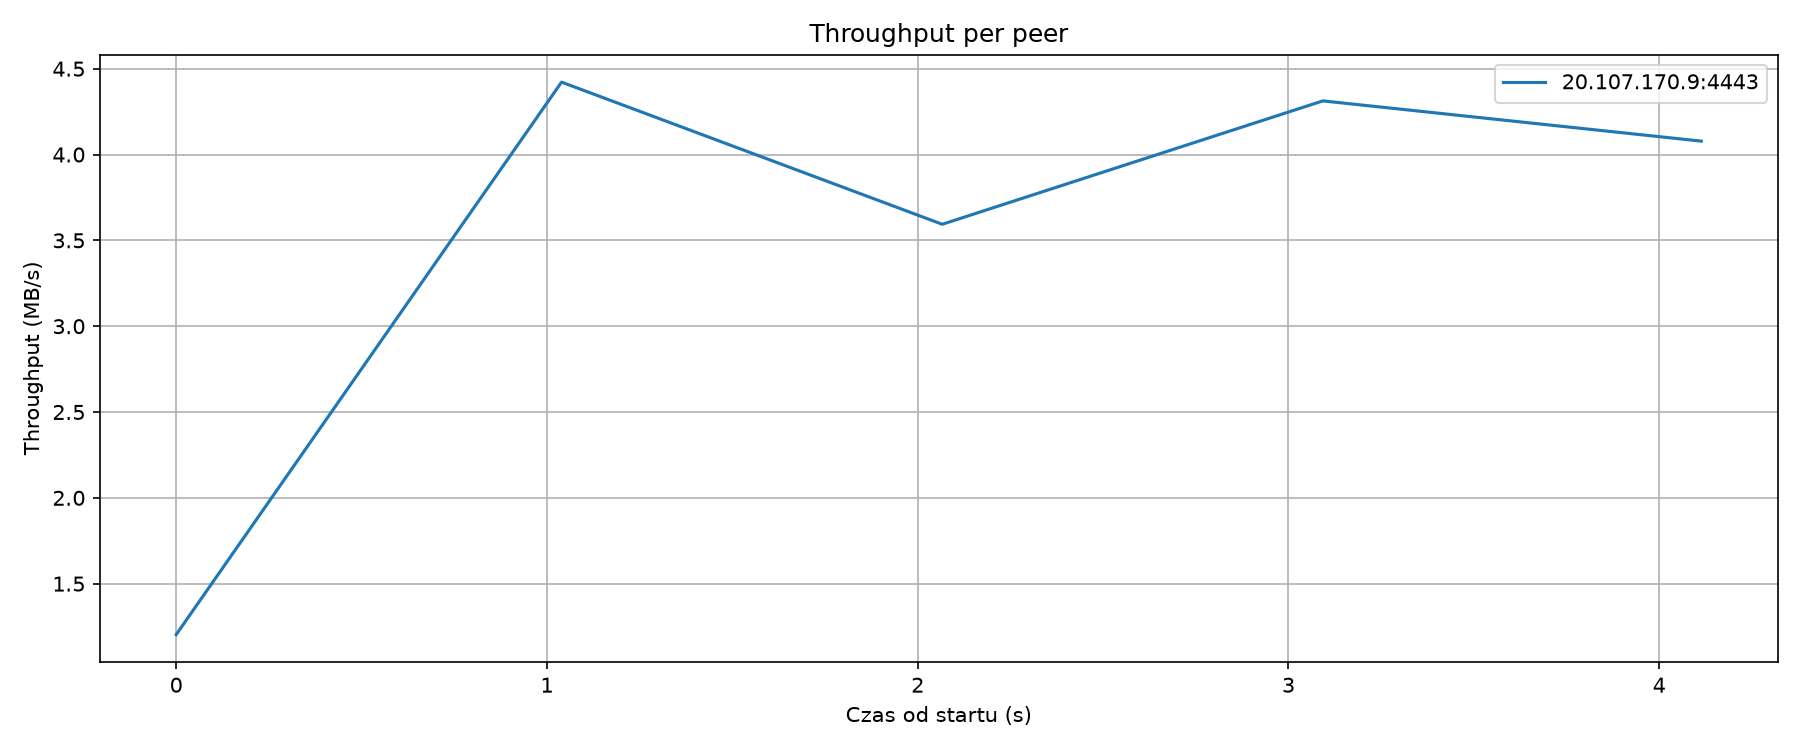
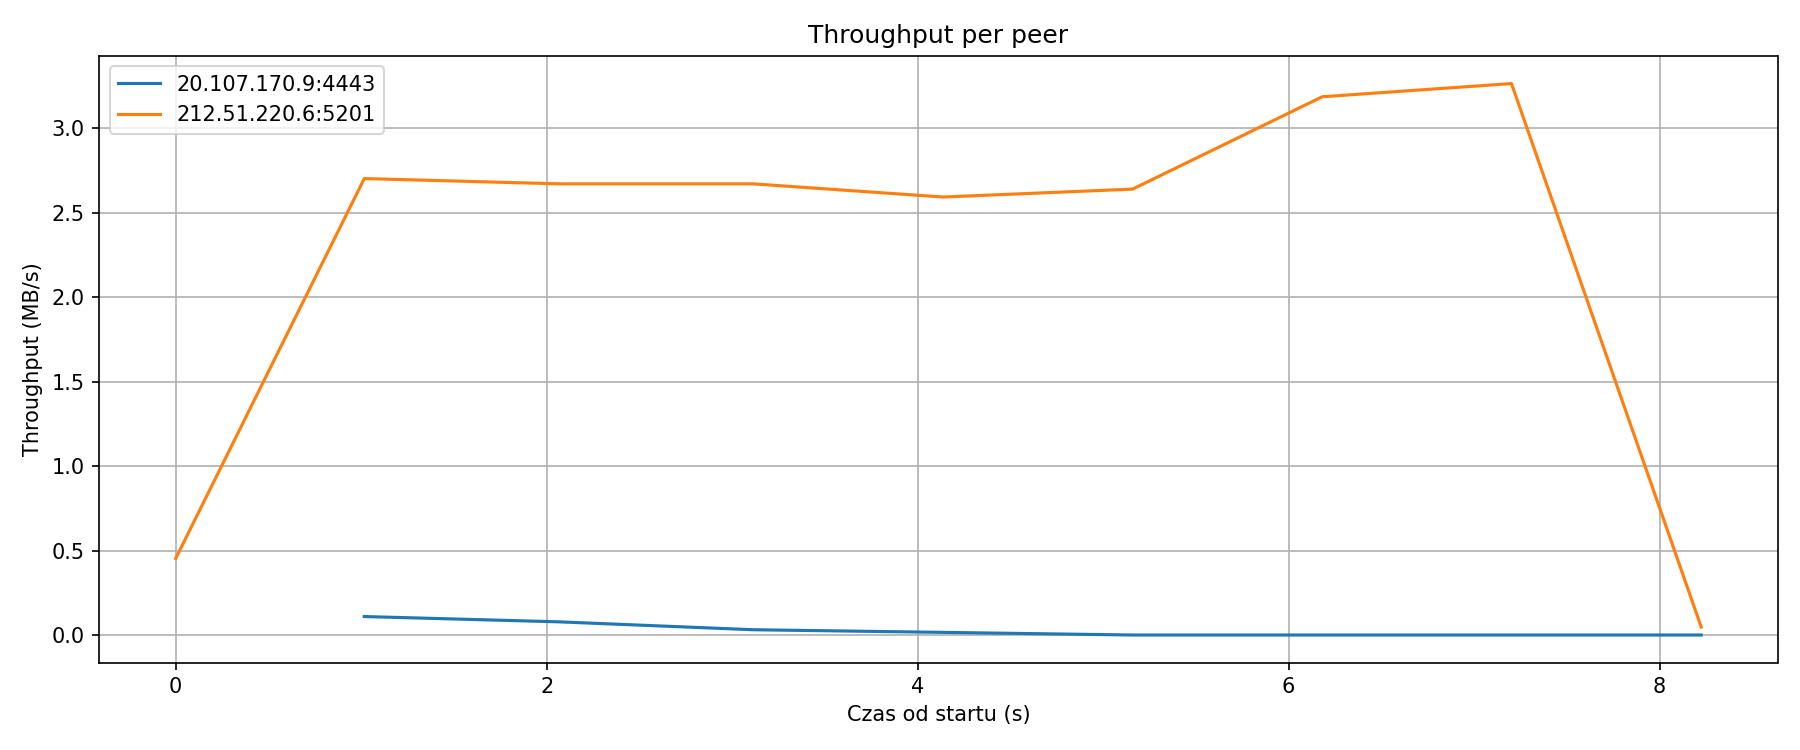
Metrics for P2P

diff --git a/_tul_project/quic/torrent_analysis/libtorrent_client_new.py b/_tul_project/quic/torrent_analysis/libtorrent_client_new.py
@@ -59,6 +59,33 @@ def format_size(bytes_val):
     return f"{bytes_val} B"
 
 
+def compute_stats(values):
+    if not values:
+        return 0.0, 0.0, 0.0, 0.0
+    vmin = min(values)
+    vmax = max(values)
+    mean = sum(values) / len(values)
+    var = sum((v - mean) ** 2 for v in values) / len(values)
+    return vmin, vmax, mean, var
+
+
+def write_metric_summary(path, label, section, values, duration=None):
+    with open(path, "w") as f:
+        f.write("=== %s ===\n\n" % label)
+        if values:
+            vmin, vmax, mean, var = compute_stats(values)
+            f.write("--- %s ---\n" % section)
+            f.write("Count: %d\n" % len(values))
+            f.write("Min: %.6f\n" % vmin)
+            f.write("Max: %.6f\n" % vmax)
+            f.write("Mean: %.6f\n" % mean)
+            f.write("Variance: %.6f\n" % var)
+            f.write("StdDev: %.6f\n" % (var ** 0.5))
+        if duration is not None:
+            f.write("\n=== Transfer Duration ===\n")
+            f.write("Total: %.6f s\n" % duration)
+
+
 def monitor(handle, session, seed_addrs=None):
     if seed_addrs is None:
         seed_addrs = []
@@ -66,6 +93,7 @@ def monitor(handle, session, seed_addrs=None):
     piece_peers = {}    # piece_index -> set of peer IPs
     pending_pieces = set()  # pieces that got piece_finished but not all blocks yet
     start_time = time.time()
+    first_block_time = None  # czas pierwszego otrzymanego bloku (pierwszy bajt)
 
     # Mapowanie adresów seedów na etykiety conn (jak w QUIC: conn1, conn2, ...)
     addr_to_conn = {f"{ip}:{port}": "conn%d" % (i + 1) for i, (ip, port) in enumerate(seed_addrs)}
@@ -89,6 +117,9 @@ def monitor(handle, session, seed_addrs=None):
     # Dane do scatter plota: lista (elapsed, piece_idx, peers_set)
     piece_events = []
     last_rtt_sample = start_time
+    # Wartości do summary (jak w QUIC): per conn i combined
+    rtt_values = defaultdict(list)
+    tp_values = defaultdict(list)
 
     while not handle.status().is_seeding:
         alerts = session.pop_alerts()
@@ -103,6 +134,8 @@ def monitor(handle, session, seed_addrs=None):
                 ip = f"{alert.ip[0]}:{alert.ip[1]}" if hasattr(alert, 'ip') else "N/A"
                 print(f"\n[ALERT] {name}: ip={ip} error={err_msg} msg={msg}", flush=True)
             if name == 'block_finished_alert':
+                if first_block_time is None:
+                    first_block_time = time.time()
                 peer_ip = f"{alert.ip[0]}:{alert.ip[1]}"
                 if alert.piece_index not in piece_peers:
                     piece_peers[alert.piece_index] = set()
@@ -145,9 +178,11 @@ def monitor(handle, session, seed_addrs=None):
             ts = datetime.now().strftime("%Y-%m-%d %H:%M:%S.%f")
             for p in peer_infos:
                 peer_ip = f"{p.ip[0]}:{p.ip[1]}"
-                rtt_ms = p.rtt
+                rtt_ms = getattr(p, "rtt", 0)
                 if rtt_ms and rtt_ms > 0:
-                    rtt_csv.write(f"{ts},{addr_to_conn.get(peer_ip, peer_ip)},{int(rtt_ms * 1e6)},{rtt_ms:.6f}\n")
+                    conn = addr_to_conn.get(peer_ip, peer_ip)
+                    rtt_values[conn].append(rtt_ms)
+                    rtt_csv.write(f"{ts},{conn},{int(rtt_ms * 1e6)},{rtt_ms:.6f}\n")
             rtt_csv.flush()
 
         # Próbkuj throughput co 1s
@@ -162,7 +197,9 @@ def monitor(handle, session, seed_addrs=None):
             ts = datetime.now().strftime("%Y-%m-%d %H:%M:%S.%f")
             for peer, wb in window_bytes.items():
                 tp_mbs = wb / window_elapsed / 1024 / 1024
-                tp_csv.write(f"{ts},{addr_to_conn.get(peer, peer)},{tp_mbs:.6f},{peer_bytes_total[peer]}\n")
+                conn = addr_to_conn.get(peer, peer)
+                tp_values[conn].append(tp_mbs)
+                tp_csv.write(f"{ts},{conn},{tp_mbs:.6f},{peer_bytes_total[peer]}\n")
             tp_csv.flush()
             last_sample_time = now
             window_start_elapsed = elapsed
@@ -198,9 +235,32 @@ def monitor(handle, session, seed_addrs=None):
     print("\nDownload finished")
     rtt_csv.close()
     tp_csv.close()
-    transfer_time = time.time() - start_time
+    if first_block_time is not None:
+        transfer_time = time.time() - first_block_time
+    else:
+        transfer_time = time.time() - start_time
     with open(os.path.join(run_dir, "transfer_time.txt"), "w") as f:
         f.write("transfer_time_s=%.2f\n" % transfer_time)
+
+    # Summary (jak w QUIC): combined + per conn
+    combined_rtt = [v for vals in rtt_values.values() for v in vals]
+    write_metric_summary(
+        os.path.join(run_dir, "stats_rtt", "rtt_summary.txt"),
+        "Combined (all connections)", "Smoothed RTT (ms)", combined_rtt, transfer_time)
+    for conn, vals in rtt_values.items():
+        write_metric_summary(
+            os.path.join(run_dir, "stats_rtt", "rtt_summary_%s.txt" % conn),
+            conn, "Smoothed RTT (ms)", vals)
+
+    combined_tp = [v for vals in tp_values.values() for v in vals]
+    write_metric_summary(
+        os.path.join(run_dir, "stats_throughput", "throughput_summary.txt"),
+        "Combined (all connections)", "Throughput (MB/s)", combined_tp, transfer_time)
+    for conn, vals in tp_values.items():
+        write_metric_summary(
+            os.path.join(run_dir, "stats_throughput", "throughput_summary_%s.txt" % conn),
+            conn, "Throughput (MB/s)", vals)
+
     print("Metryki (rtt, throughput, czas) zapisane do:", run_dir)
     if throughput_samples or piece_events:
         plot_all(throughput_samples, piece_events, CHARTS_DIR)
@@ -222,27 +282,18 @@ if __name__ == "__main__":
 
     handle.set_sequential_download(True)
 
-    # seed_addrs = [
-    #     ("212.51.220.6", 5201),
-    #     ("20.107.170.9", 4443),
-    # ]
-
     seed_addrs = [
-        ("127.0.0.1", 4443),
-        ("127.0.0.1", 4444)
+        ("212.51.220.6", 5201),
+        ("20.107.170.9", 4443),
     ]
+
+    # seed_addrs = [
+    #     ("127.0.0.1", 4443),
+    #     ("127.0.0.1", 4444)
+    # ]
 
     for addr in seed_addrs:
         print("Connecting:", addr)
         handle.connect_peer(addr)
-
-    time.sleep(5)
-
-    for p in handle.get_peer_info():
-        print(
-            p.ip,
-            p.client,
-            p.flags
-        )
 
     monitor(handle, session, seed_addrs)

diff --git a/_tul_project/quic/torrent_analysis/libtorrent_seed.py b/_tul_project/quic/torrent_analysis/libtorrent_seed.py
@@ -15,7 +15,7 @@ def create_session(listen_interface):
         "enable_outgoing_utp": True,
         "enable_incoming_utp": True,
         "connections_limit": 100,
-        "upload_rate_limit": 1 * 1024 * 1024,  # 2 MB/s
+        # "upload_rate_limit": 1 * 1024 * 1024,  # 2 MB/s
     })
     print("Listening on port:", ses.listen_port())
     return ses
